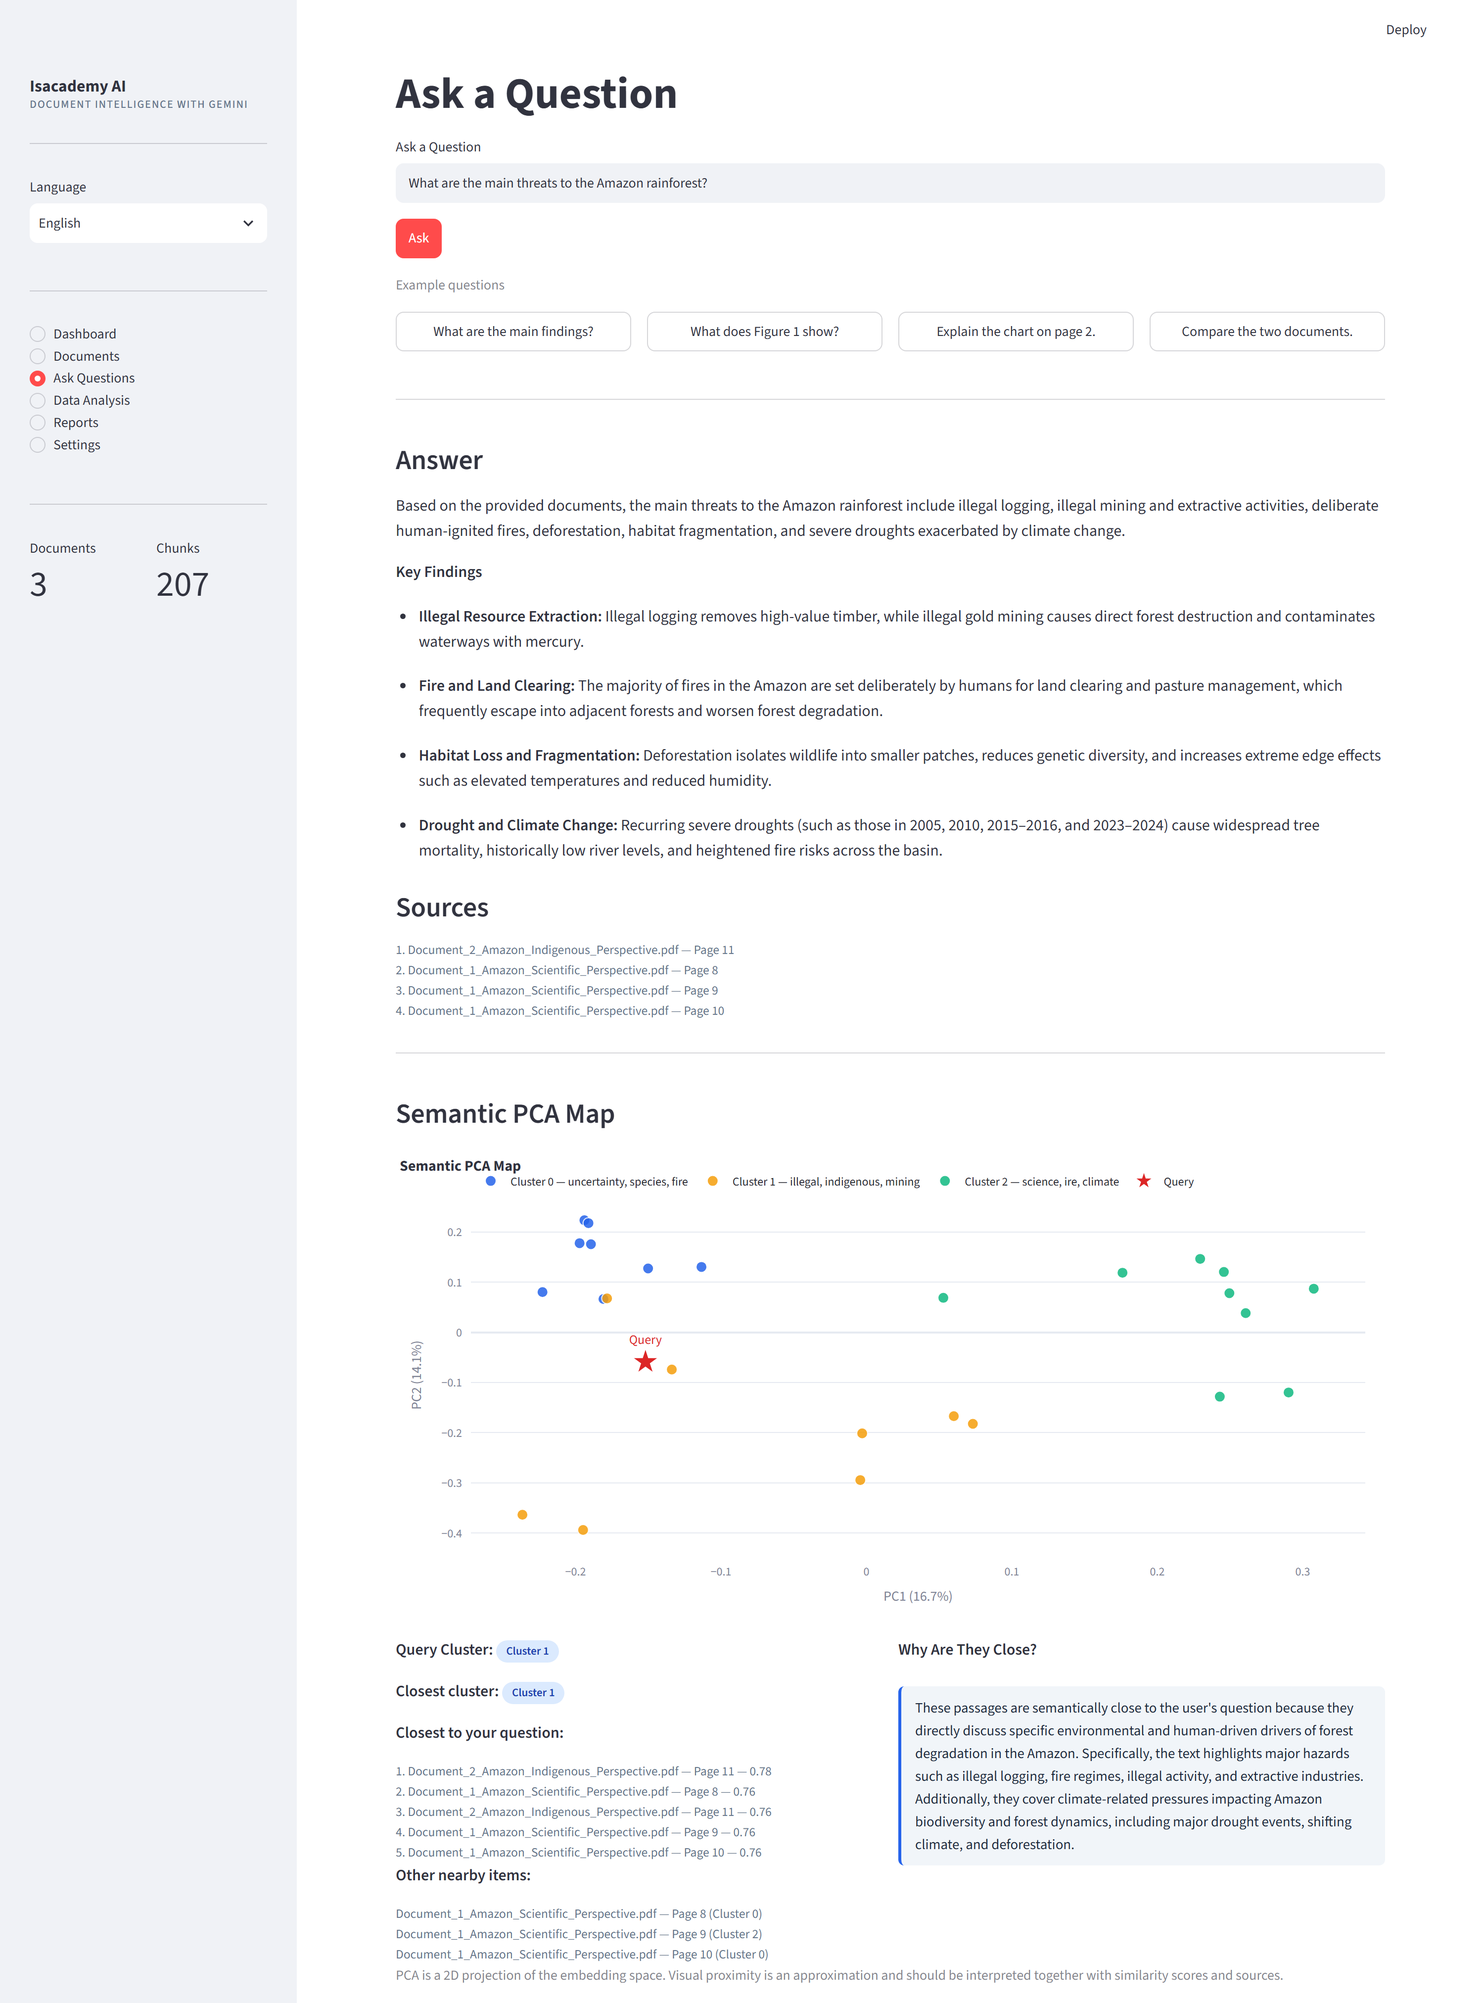
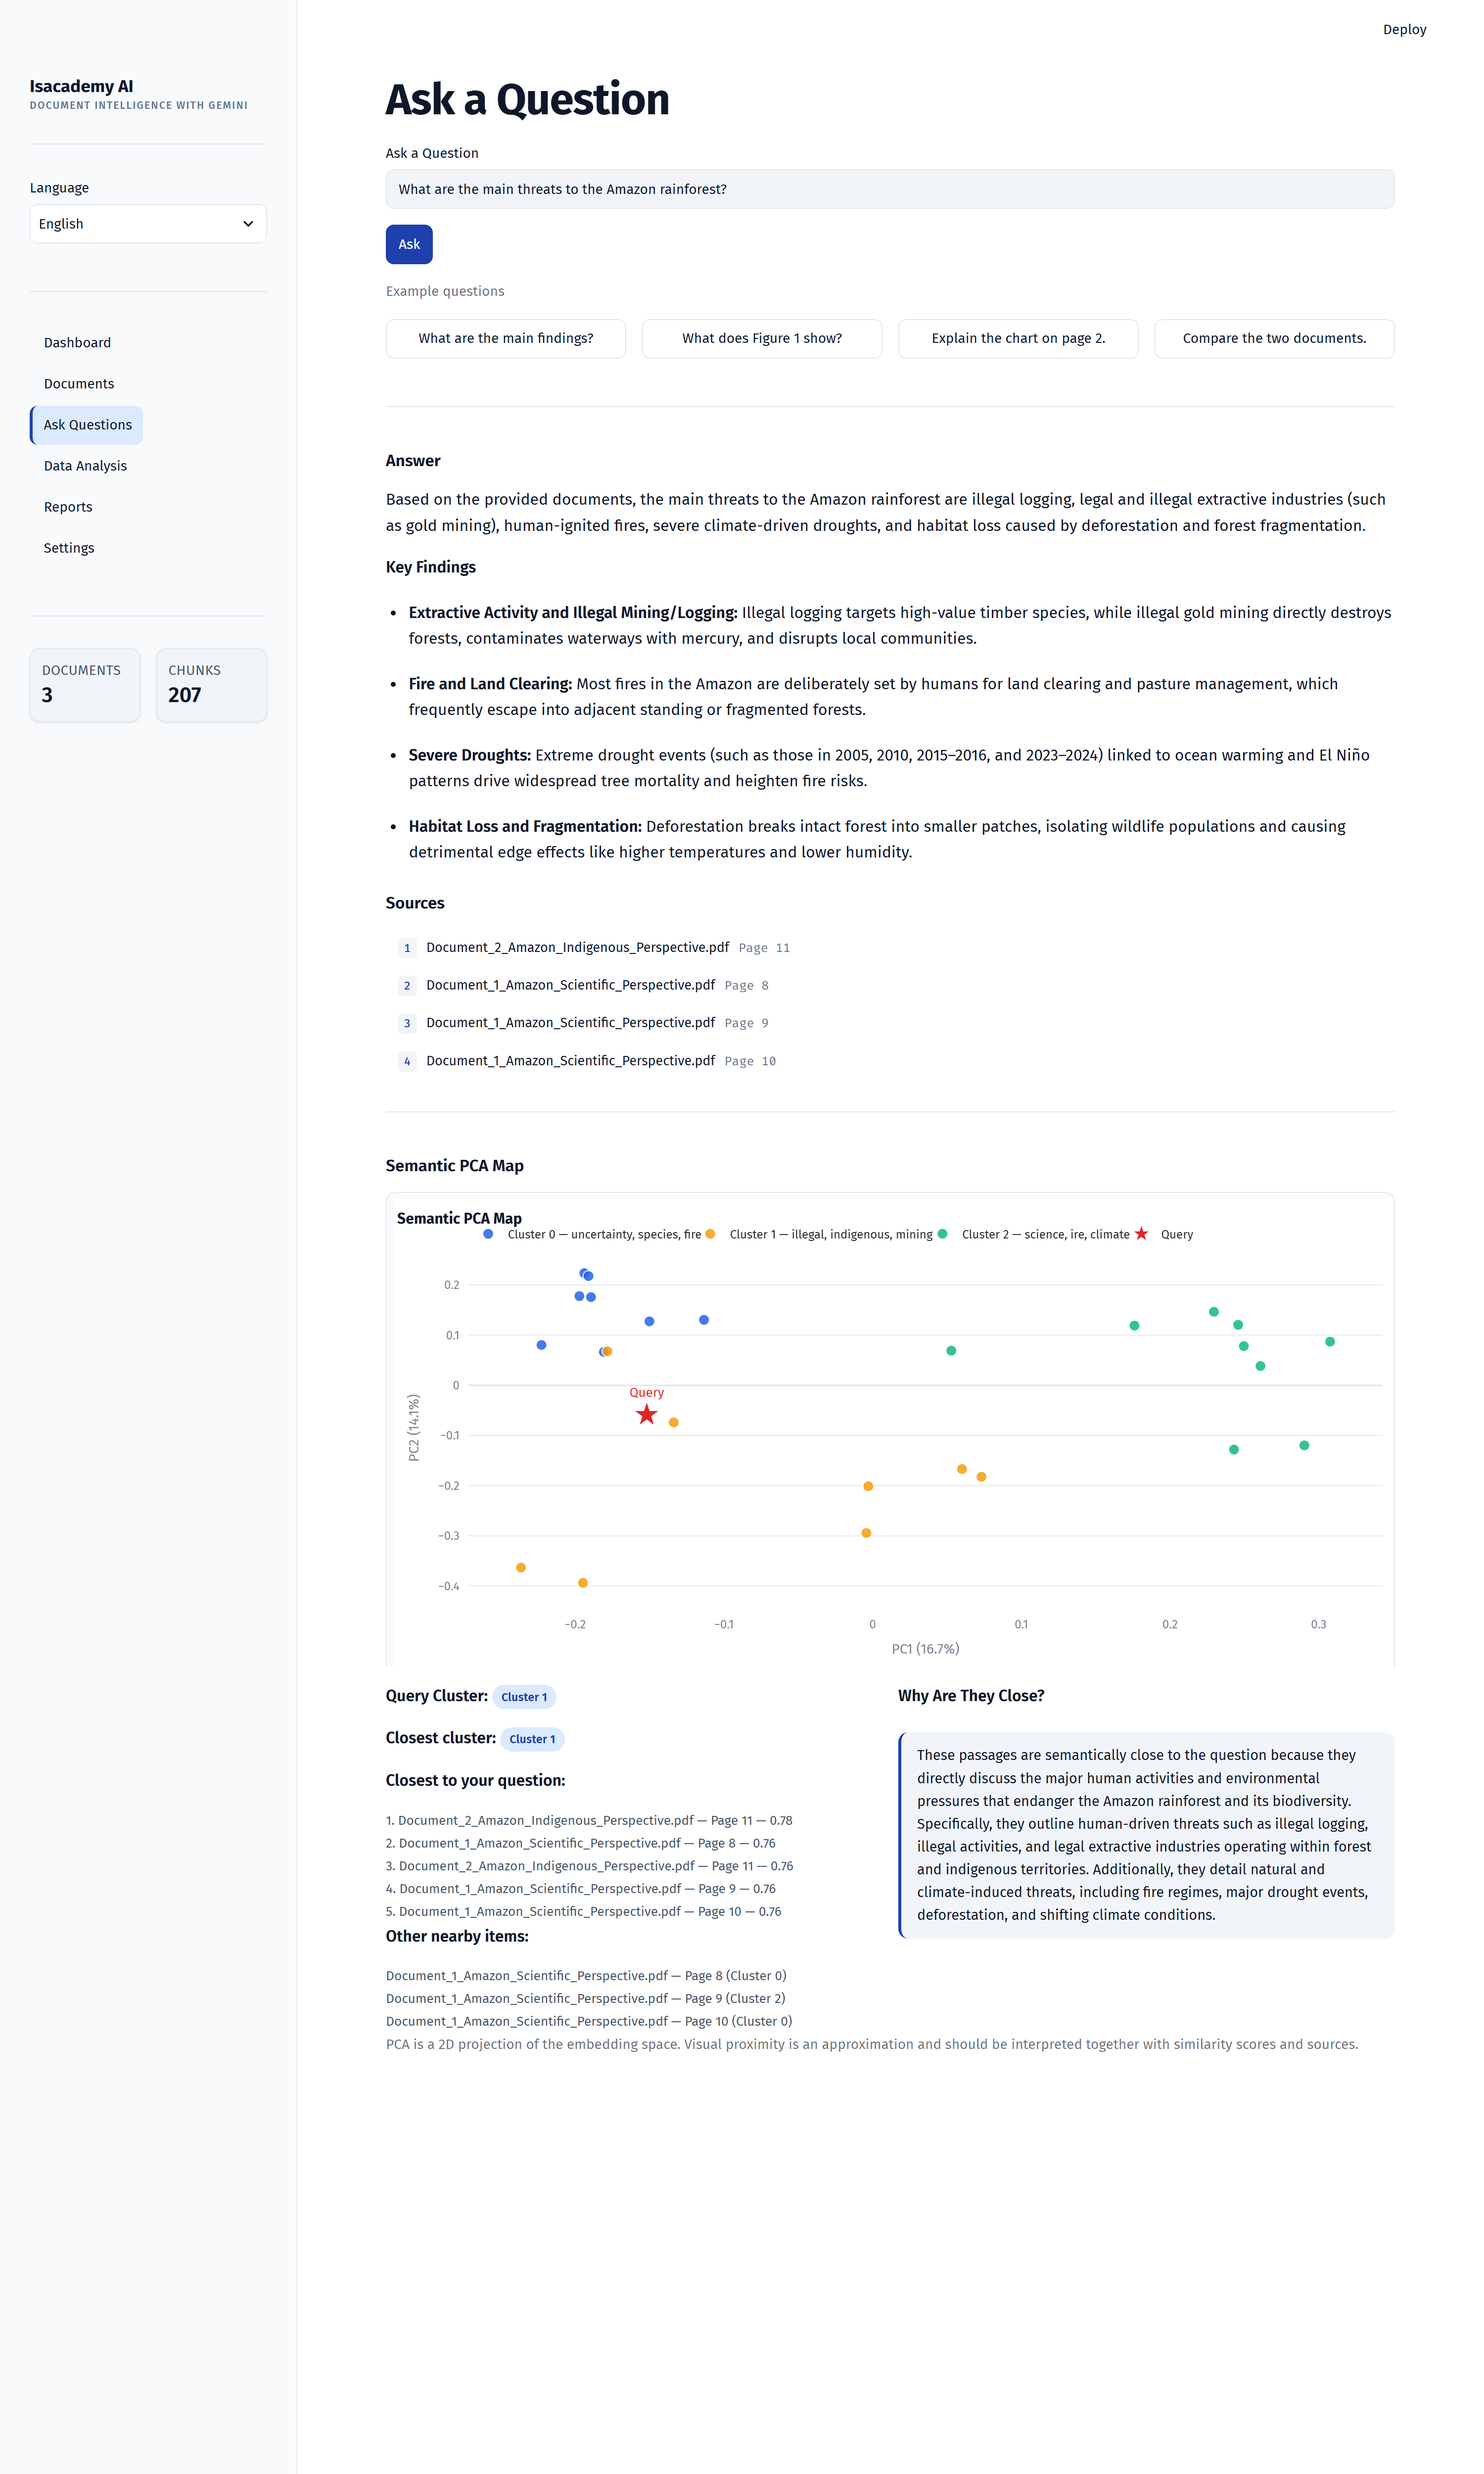
Redesign the UI: themed Streamlit, design tokens, and a real sidebar nav
Design direction from the ui-ux-pro-max "Data-Dense Dashboard" system:
deep blue #1E40AF with an amber accent, Fira Sans + Fira Code, restrained
decoration, maximum data visibility.

- .streamlit/config.toml: 40 validated theme keys - fonts, radii, separate
  light/dark and sidebar palettes, and a shared chart colour ramp so the
  semantic PCA map and the dataset charts match the rest of the interface
- CSS rewritten around custom properties, so dark mode only redefines tokens
- KPI metric cards, carded charts, hover/focus states, reduced-motion support
- Sources are now a scannable list with the document and locator styled apart
- Sidebar navigation restyled from Streamlit's own radio: a custom component
  (streamlit-option-menu) renders but exposes no driveable widget to AppTest,
  which would have made navigation permanently untestable
- Arabic pairs IBM Plex Sans Arabic, since Fira Sans has no Arabic glyphs;
  numerals, code and filenames stay in the Latin face
- capture_screenshots.py now auto-trims and also shoots the Arabic RTL view

110 tests pass.

diff --git a/app/ui/streamlit_app.py b/app/ui/streamlit_app.py
@@ -24,20 +24,181 @@ from app.utils.logging import get_logger  # noqa: E402
 
 log = get_logger("ui")
 
+# Palette and spacing live as CSS custom properties so there is one place to
+# change them. The colours mirror .streamlit/config.toml, which themes the
+# widgets Streamlit renders itself.
 BASE_CSS = """
 <style>
-  .block-container { padding-top: 2rem; max-width: 1160px; }
-  .isa-brand { font-size: 1.05rem; font-weight: 700; line-height: 1.3; }
-  .isa-brand span { display:block; font-size:.7rem; font-weight:500; color:#64748b;
-                    letter-spacing:.08em; text-transform:uppercase; }
-  .isa-card { background:#f1f5f9; color:#0f172a; border:1px solid #cbd5e1;
-              border-radius:10px; padding:14px 16px; margin-bottom:10px; }
-  .isa-quote { background:#f1f5f9; color:#1e293b; border-inline-start:3px solid #2563eb;
-               border-radius:6px; padding:10px 14px; margin:8px 0; font-size:.9rem; }
-  .isa-src { font-size:.8rem; color:#64748b; }
-  .isa-pill { display:inline-block; padding:2px 10px; border-radius:999px;
-              font-size:.72rem; font-weight:600; background:#dbeafe; color:#1e40af; }
+  @import url('https://fonts.googleapis.com/css2?family=Fira+Sans:wght@300;400;500;600;700&family=Fira+Code:wght@400;500&family=IBM+Plex+Sans+Arabic:wght@300;400;500;600;700&display=swap');
+
+  :root {
+    --isa-primary:   #1E40AF;
+    --isa-primary-2: #3B82F6;
+    --isa-accent:    #F59E0B;
+    --isa-ink:       #0F172A;
+    --isa-muted:     #475569;
+    --isa-subtle:    #64748B;
+    --isa-line:      #E2E8F0;
+    --isa-surface:   #F8FAFC;
+    --isa-surface-2: #F1F5F9;
+    --isa-radius:    0.625rem;
+    --isa-gap:       1rem;
+    --isa-shadow:    0 1px 2px rgba(15,23,42,.04), 0 1px 3px rgba(15,23,42,.06);
+    --isa-shadow-lg: 0 4px 6px -1px rgba(15,23,42,.07), 0 2px 4px -2px rgba(15,23,42,.05);
+  }
+
+  /* dark mode: only the tokens change, every rule below follows */
+  @media (prefers-color-scheme: dark) {
+    :root:not([data-theme="light"]) {
+      --isa-ink:       #E2E8F0;
+      --isa-muted:     #94A3B8;
+      --isa-subtle:    #94A3B8;
+      --isa-line:      #1E293B;
+      --isa-surface:   #0F172A;
+      --isa-surface-2: #111A2E;
+      --isa-shadow:    0 1px 2px rgba(0,0,0,.4);
+      --isa-shadow-lg: 0 4px 10px rgba(0,0,0,.45);
+    }
+  }
+
+  .block-container { padding-top: 2.4rem; padding-bottom: 3rem; max-width: 1180px; }
+
+  /* ---- typography scale ---- */
+  h1, h2, h3 { letter-spacing: -0.018em; }
+  h1 { font-weight: 650 !important; }
+  h2 { font-weight: 600 !important; margin-top: 0.4em !important; }
+  h3 { font-weight: 600 !important; font-size: 1.05rem !important; }
+  p, li { line-height: 1.65; }
+
+  /* ---- brand ---- */
+  .isa-brand { font-size: 1.1rem; font-weight: 700; line-height: 1.25;
+               color: var(--isa-ink); }
+  .isa-brand span { display:block; font-size:.66rem; font-weight:500;
+                    color: var(--isa-subtle); letter-spacing:.1em;
+                    text-transform:uppercase; margin-top:2px; }
+
+  /* ---- surfaces ---- */
+  .isa-card { background: var(--isa-surface-2); color: var(--isa-ink);
+              border: 1px solid var(--isa-line); border-radius: var(--isa-radius);
+              padding: 14px 16px; margin-bottom: 10px; box-shadow: var(--isa-shadow); }
+
+  .isa-quote { background: var(--isa-surface-2); color: var(--isa-ink);
+               border-inline-start: 3px solid var(--isa-primary);
+               border-radius: var(--isa-radius); padding: 12px 16px; margin: 8px 0;
+               font-size: .9rem; line-height: 1.6; }
+
+  /* ---- source list: a real list, not loose grey text ---- */
+  .isa-src { font-size: .82rem; color: var(--isa-muted); line-height: 1.75; }
+  .isa-source-row { display:flex; gap:.6rem; align-items:baseline;
+                    padding:.45rem .7rem; border-radius:.45rem;
+                    border:1px solid transparent; transition: background-color .18s ease,
+                    border-color .18s ease; }
+  .isa-source-row:hover { background: var(--isa-surface-2);
+                          border-color: var(--isa-line); }
+  .isa-source-n { flex:0 0 auto; font-family:'Fira Code', ui-monospace, monospace;
+                  font-size:.72rem; font-weight:500; color: var(--isa-primary);
+                  background: var(--isa-surface-2); border-radius:.3rem;
+                  padding:.08rem .38rem; }
+  .isa-source-doc { color: var(--isa-ink); font-size:.84rem; }
+  .isa-source-page { color: var(--isa-subtle); font-size:.78rem;
+                     font-family:'Fira Code', ui-monospace, monospace; }
+
+  /* ---- pills ---- */
+  .isa-pill { display:inline-block; padding:.18rem .6rem; border-radius:999px;
+              font-size:.72rem; font-weight:600; letter-spacing:.01em;
+              background:#DBEAFE; color:#1E40AF; }
+  .isa-pill-accent { background:#FEF3C7; color:#92400E; }
+
+  /* ---- metrics ---- */
+  [data-testid="stMetric"] { background: var(--isa-surface-2);
+      border: 1px solid var(--isa-line); border-radius: var(--isa-radius);
+      padding: 1rem 1.15rem; box-shadow: var(--isa-shadow); }
+  [data-testid="stMetricLabel"] { color: var(--isa-muted) !important;
+      font-size:.78rem !important; letter-spacing:.04em; text-transform:uppercase; }
+
+  /* ---- interaction: every clickable thing says so ---- */
+  .stButton > button, .stDownloadButton > button,
+  [role="radio"], [role="tab"], summary { cursor: pointer; }
+  .stButton > button { transition: background-color .18s ease, border-color .18s ease,
+                       box-shadow .18s ease; font-weight: 500; }
+  .stButton > button:hover { box-shadow: var(--isa-shadow-lg); }
+  .stButton > button:focus-visible, .stDownloadButton > button:focus-visible {
+      outline: 2px solid var(--isa-primary); outline-offset: 2px; }
+
+  /* ---- charts sit on a card like everything else ---- */
+  .js-plotly-plot { border: 1px solid var(--isa-line);
+      border-radius: var(--isa-radius); padding: .4rem;
+      background: var(--isa-surface); box-shadow: var(--isa-shadow); }
+
+  [data-testid="stExpander"] { border-radius: var(--isa-radius) !important;
+      border-color: var(--isa-line) !important; }
+
+  /* ---- sidebar navigation ----
+     Styled from Streamlit's own radio rather than a custom component: a
+     custom one is invisible to AppTest, which would make navigation
+     untestable. This keeps the widget real and the tests honest. */
+  [data-testid="stSidebar"] [role="radiogroup"] { gap: .15rem; }
+  [data-testid="stSidebar"] [role="radiogroup"] > label {
+      display: flex; align-items: center; width: 100%;
+      padding: .5rem .7rem; margin: 0; border-radius: .5rem;
+      border-inline-start: 3px solid transparent;
+      color: var(--isa-muted); font-weight: 500; font-size: .92rem;
+      cursor: pointer;
+      transition: background-color .18s ease, color .18s ease,
+                  border-color .18s ease;
+  }
+  [data-testid="stSidebar"] [role="radiogroup"] > label:hover {
+      background: var(--isa-surface-2); color: var(--isa-ink);
+  }
+  /* Hide the radio dot - the row itself carries the state. Targeted
+     structurally (the div holding the label text) because Streamlit's
+     emotion class names change between releases. */
+  [data-testid="stSidebar"] [role="radiogroup"] label
+    div:has(> [data-testid="stMarkdownContainer"]) > div:first-child {
+      display: none !important;
+  }
+
+  /* the sidebar is narrow: metric cards need tighter type than the main area */
+  [data-testid="stSidebar"] [data-testid="stMetric"] { padding: .6rem .7rem; }
+  [data-testid="stSidebar"] [data-testid="stMetricLabel"] {
+      font-size: .64rem !important; letter-spacing: .02em;
+  }
+  [data-testid="stSidebar"] [data-testid="stMetricValue"] {
+      font-size: 1.35rem !important;
+  }
+  [data-testid="stSidebar"] [role="radiogroup"] > label:has(input:checked) {
+      background: #DBEAFE; color: var(--isa-primary); font-weight: 600;
+      border-inline-start-color: var(--isa-primary);
+  }
+  [data-testid="stSidebar"] [role="radiogroup"] > label:has(input:focus-visible) {
+      outline: 2px solid var(--isa-primary); outline-offset: 1px;
+  }
+  @media (prefers-color-scheme: dark) {
+    :root:not([data-theme="light"])
+      [data-testid="stSidebar"] [role="radiogroup"] > label:has(input:checked) {
+        background: #1E293B; color: #93C5FD; border-inline-start-color: #60A5FA;
+    }
+  }
+
   footer, #MainMenu { visibility: hidden; }
+
+  /* ---- respect the OS motion preference ---- */
+  @media (prefers-reduced-motion: reduce) {
+    * { transition-duration: .01ms !important; animation-duration: .01ms !important; }
+  }
+</style>
+"""
+
+# Arabic needs a family that actually has the glyphs; Fira Sans does not.
+ARABIC_FONT_CSS = """
+<style>
+  html, body, [class*="st-"], .stMarkdown, input, textarea, button, select {
+      font-family: 'IBM Plex Sans Arabic', 'Fira Sans', system-ui, sans-serif !important;
+  }
+  /* numbers, code and file paths stay in the Latin face */
+  code, pre, .isa-source-n, .isa-source-page, [data-testid="stMetricValue"] {
+      font-family: 'Fira Code', ui-monospace, monospace !important;
+  }
 </style>
 """
 
@@ -132,6 +293,7 @@ def main() -> None:
 
     st.markdown(BASE_CSS, unsafe_allow_html=True)
     if is_rtl(lang):
+        st.markdown(ARABIC_FONT_CSS, unsafe_allow_html=True)
         st.markdown(RTL_CSS, unsafe_allow_html=True)
 
     _warm_up()

diff --git a/docs/capture_screenshots.py b/docs/capture_screenshots.py
@@ -25,7 +25,7 @@ from pathlib import Path
 ROOT = Path(__file__).resolve().parent.parent
 OUT = ROOT / "docs" / "screenshots"
 PORT = 9333
-BASE = "http://localhost:8522"
+BASE = "http://localhost:8530"
 
 CHROME_CANDIDATES = [
     r"C:\Program Files\Google\Chrome\Application\chrome.exe",
@@ -54,6 +54,13 @@ SHOTS = [
         "dashboard.png",
         BASE + "/",
         "Indexed documents",
+        1250,
+        TABLE_FILLED,
+    ),
+    (
+        "arabic-rtl.png",
+        BASE + "/?lang=ar",
+        "لوحة التحكم",
         1250,
         TABLE_FILLED,
     ),
@@ -103,6 +110,22 @@ class CDP:
             "Runtime.evaluate", expression=expression, returnByValue=True
         )
         return bool(result.get("result", {}).get("value"))
+
+
+def _trim_tail(path: Path, pad: int = 40) -> None:
+    """Crop the empty page tail so the image is not mostly blank."""
+    try:
+        from PIL import Image, ImageChops
+    except ImportError:
+        return
+    image = Image.open(path).convert("RGB")
+    width, height = image.size
+    # ignore the sidebar column when looking for the last row of content
+    content = image.crop((int(width * 0.22), 0, width, height))
+    blank = Image.new("RGB", content.size, content.getpixel((content.size[0] - 5, 5)))
+    box = ImageChops.difference(content, blank).getbbox()
+    if box and box[3] + pad < height:
+        image.crop((0, 0, width, box[3] + pad)).save(path)
 
 
 def capture(chrome: str) -> list:
@@ -174,6 +197,7 @@ def capture(chrome: str) -> list:
                 shot = cdp.send("Page.captureScreenshot", format="png")
                 path = OUT / name
                 path.write_bytes(base64.b64decode(shot["data"]))
+                _trim_tail(path)
                 written.append(path)
                 print("  ->", path.name, round(path.stat().st_size / 1024), "KB")
     finally:

diff --git a/app/ui/pages.py b/app/ui/pages.py
@@ -1,6 +1,7 @@
 """The six pages. Each takes the active language and renders itself."""
 from __future__ import annotations
 
+import html
 from pathlib import Path
 
 import streamlit as st
@@ -225,11 +226,18 @@ def render_answer(result, lang: str) -> None:
     sources = result.sources
     if sources:
         st.subheader(t("sources", lang))
+        rows = []
         for i, source in enumerate(sources, 1):
-            st.markdown(
-                "<div class='isa-src'>" + str(i) + ". " + source + "</div>",
-                unsafe_allow_html=True,
+            # "file.pdf — Page 12" -> document and locator styled separately
+            document, _, locator = source.partition(" — ")
+            rows.append(
+                "<div class='isa-source-row'>"
+                "<span class='isa-source-n'>" + str(i) + "</span>"
+                "<span class='isa-source-doc'>" + html.escape(document) + "</span>"
+                "<span class='isa-source-page'>" + html.escape(locator) + "</span>"
+                "</div>"
             )
+        st.markdown("".join(rows), unsafe_allow_html=True)
 
     # --- the visual, shown BEFORE its explanation ---
     visual = result.visual

diff --git a/README.md b/README.md
@@ -37,6 +37,14 @@ similarity, and explains why they are close.*
 
 ![Dashboard](docs/screenshots/dashboard.png)
 
+### The same interface in Arabic
+
+![The dashboard in Arabic, fully right-to-left](docs/screenshots/arabic-rtl.png)
+
+*Switching language mirrors the whole layout, swaps to IBM Plex Sans Arabic,
+and translates every label — while document filenames, numbers and charts stay
+left-to-right, because those read wrongly when flipped.*
+
 Screenshots are regenerated from a live app with
 `python docs/capture_screenshots.py`.
 
